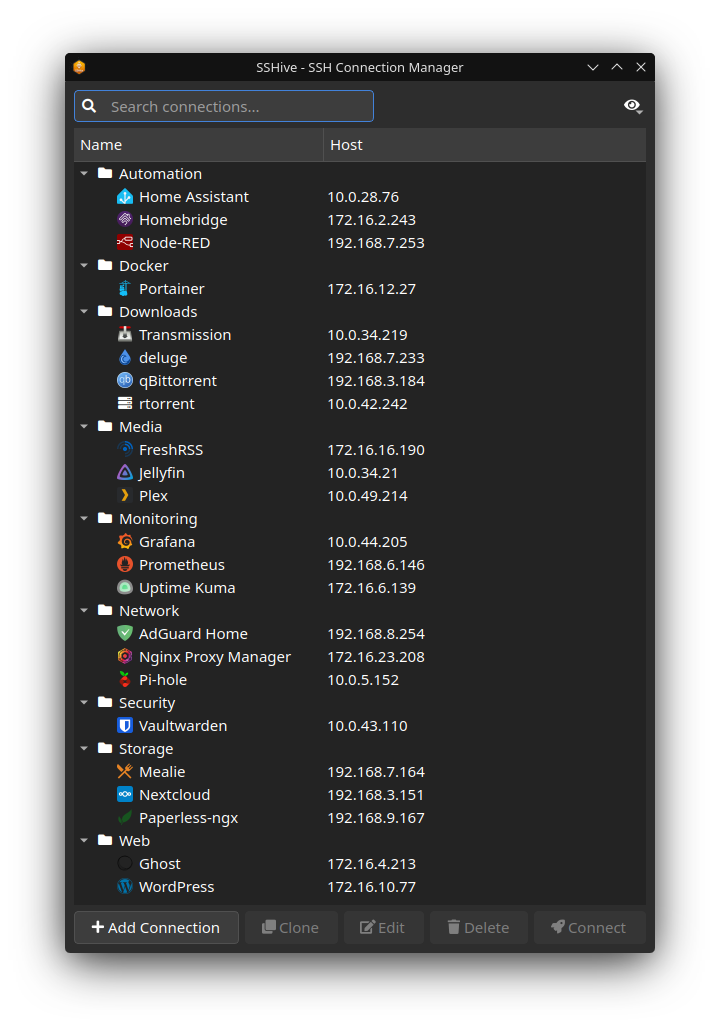
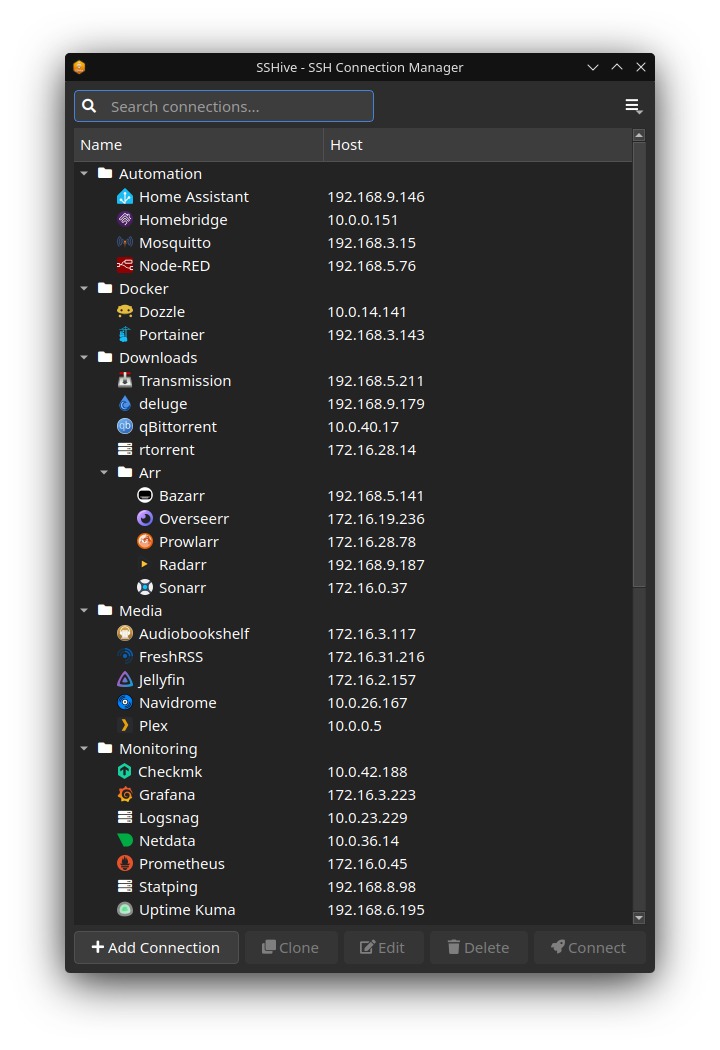
chore: Update README preview screenshots, use all incognito services

diff --git a/sshive/ui/main_window.py b/sshive/ui/main_window.py
@@ -306,7 +306,57 @@ class MainWindow(QMainWindow):
 
         self._populate_tree()
 
-    INCOGNITO_VERSION = 3
+    INCOGNITO_VERSION = 4
+
+    INCOGNITO_SERVICES = [
+        ("Plex", "Media", "plex"),
+        ("Nextcloud", "Storage", "nextcloud"),
+        ("Home Assistant", "Automation", "home-assistant"),
+        ("Pi-hole", "Network", "pi-hole"),
+        ("Portainer", "Docker", "portainer"),
+        ("Uptime Kuma", "Monitoring", "uptime-kuma"),
+        ("Jellyfin", "Media", "jellyfin"),
+        ("AdGuard Home", "Network", "adguard-home"),
+        ("Nginx Proxy Manager", "Network", "nginx-proxy-manager"),
+        ("Vaultwarden", "Security", "bitwarden"),
+        ("Paperless-ngx", "Storage", "paperless-ngx"),
+        ("deluge", "Downloads", "deluge"),
+        ("Sonarr", "Downloads/Arr", "sonarr"),
+        ("Radarr", "Downloads/Arr", "radarr"),
+        ("Prowlarr", "Downloads/Arr", "prowlarr"),
+        ("Overseerr", "Downloads/Arr", "overseerr"),
+        ("Bazarr", "Downloads/Arr", "bazarr"),
+        ("rtorrent", "Downloads", "rtorrent"),
+        ("Transmission", "Downloads", "transmission"),
+        ("qBittorrent", "Downloads", "qbittorrent"),
+        ("Grafana", "Monitoring", "grafana"),
+        ("Prometheus", "Monitoring", "prometheus"),
+        ("Homebridge", "Automation", "homebridge"),
+        ("FreshRSS", "Media", "freshrss"),
+        ("Mealie", "Storage", "mealie"),
+        ("Ghost", "Web", "ghost"),
+        ("WordPress", "Web", "wordpress"),
+        ("Node-RED", "Automation", "node-red"),
+        ("Mosquitto", "Automation", "mosquitto"),
+        ("TrueNAS Core", "Storage", "truenas"),
+        ("Unraid OS", "Storage", "unraid"),
+        ("Bitwarden", "Security", "bitwarden"),
+        ("Logsnag", "Monitoring", "logsnag"),
+        ("Netdata", "Monitoring", "netdata"),
+        ("Checkmk", "Monitoring", "checkmk"),
+        ("Guacamole", "Network", "guacamole"),
+        ("Tailscale", "Network", "tailscale"),
+        ("WireGuard", "Network", "wireguard"),
+        ("Dozzle", "Docker", "dozzle"),
+        ("Statping", "Monitoring", "statping"),
+        ("Audiobookshelf", "Media", "audiobookshelf"),
+        ("Navidrome", "Media", "navidrome"),
+        ("Gitea", "Web", "gitea"),
+        ("Wiki.js", "Web", "wikijs"),
+        ("Heimdall", "Web", "heimdall"),
+        ("Flame", "Web", "flame"),
+        ("Organizr", "Web", "organizr"),
+    ]
 
     def _load_or_generate_incognito_connections(self) -> list[SSHConnection]:
         """Load fake connections from file or generate them deterministically."""
@@ -327,26 +377,28 @@ class MainWindow(QMainWindow):
             except Exception as e:
                 print(f"Failed to load incognito connections: {e}")
 
-        # Fallback: generate deterministically from real connections
+        # Fallback: generate deterministically from full service catalog
         fake_conns = []
         used_identities = set()
 
-        for i, conn in enumerate(self.connections):
+        for i, (_, _, icon_name) in enumerate(self.INCOGNITO_SERVICES):
+            fake_id = f"incognito-{icon_name}-{i}"
+
             # Ensure we cycle through services correctly
-            name, host, user, group, icon, _ = self._get_fake_data(conn.id, service_index=i)
+            name, host, user, group, icon, _ = self._get_fake_data(fake_id, service_index=i)
 
             # Handle potential identity collisions
             counter = 1
             while (name, host) in used_identities and counter < 10:
                 name, host, user, group, icon, _ = self._get_fake_data(
-                    f"{conn.id}-{counter}", service_index=i + counter
+                    f"{fake_id}-{counter}", service_index=i + counter
                 )
                 counter += 1
 
             used_identities.add((name, host))
 
             # Use deterministic port
-            _, _, _, _, _, fake_port = self._get_fake_data(conn.id, service_index=i)
+            _, _, _, _, _, fake_port = self._get_fake_data(fake_id, service_index=i)
 
             fake_conn = SSHConnection(
                 name=name,
@@ -355,7 +407,7 @@ class MainWindow(QMainWindow):
                 port=fake_port,
                 group=group,
                 icon=icon,
-                id=conn.id,
+                id=fake_id,
             )
             fake_conns.append(fake_conn)
 
@@ -388,61 +440,11 @@ class MainWindow(QMainWindow):
 
         seed = int(hashlib.md5(connection_id.encode()).hexdigest(), 16)
 
-        services = [
-            ("Plex", "Media", "plex"),
-            ("Nextcloud", "Storage", "nextcloud"),
-            ("Home Assistant", "Automation", "home-assistant"),
-            ("Pi-hole", "Network", "pi-hole"),
-            ("Portainer", "Docker", "portainer"),
-            ("Uptime Kuma", "Monitoring", "uptime-kuma"),
-            ("Jellyfin", "Media", "jellyfin"),
-            ("AdGuard Home", "Network", "adguard-home"),
-            ("Nginx Proxy Manager", "Network", "nginx-proxy-manager"),
-            ("Vaultwarden", "Security", "bitwarden"),
-            ("Paperless-ngx", "Storage", "paperless-ngx"),
-            ("deluge", "Downloads", "deluge"),
-            ("rtorrent", "Downloads", "rtorrent"),
-            ("Transmission", "Downloads", "transmission"),
-            ("qBittorrent", "Downloads", "qbittorrent"),
-            ("Grafana", "Monitoring", "grafana"),
-            ("Prometheus", "Monitoring", "prometheus"),
-            ("Homebridge", "Automation", "homebridge"),
-            ("FreshRSS", "Media", "freshrss"),
-            ("Mealie", "Storage", "mealie"),
-            ("Ghost", "Web", "ghost"),
-            ("WordPress", "Web", "wordpress"),
-            ("Node-RED", "Automation", "node-red"),
-            ("Mosquitto", "Automation", "mosquitto"),
-            ("TrueNAS Core", "Storage", "truenas"),
-            ("Unraid OS", "Storage", "unraid"),
-            ("Bitwarden", "Security", "bitwarden"),
-            ("Logsnag", "Monitoring", "logsnag"),
-            ("Netdata", "Monitoring", "netdata"),
-            ("Checkmk", "Monitoring", "checkmk"),
-            ("Guacamole", "Network", "guacamole"),
-            ("Tailscale", "Network", "tailscale"),
-            ("WireGuard", "Network", "wireguard"),
-            ("Dozzle", "Docker", "dozzle"),
-            ("Statping", "Monitoring", "statping"),
-            ("Audiobookshelf", "Media", "audiobookshelf"),
-            ("Navidrome", "Media", "navidrome"),
-            ("Sonarr", "Downloads", "sonarr"),
-            ("Radarr", "Downloads", "radarr"),
-            ("Prowlarr", "Downloads", "prowlarr"),
-            ("Overseerr", "Downloads", "overseerr"),
-            ("Bazarr", "Downloads", "bazarr"),
-            ("Gitea", "Web", "gitea"),
-            ("Wiki.js", "Web", "wikijs"),
-            ("Heimdall", "Web", "heimdall"),
-            ("Flame", "Web", "flame"),
-            ("Organizr", "Web", "organizr"),
-        ]
-
         users = ["admin", "root", "pi", "user", "manager", "maintainer", "sysop", "dev"]
 
         # Use service_index if provided to ensure distribution, otherwise fallback to seed
         idx = service_index if service_index is not None else seed
-        service_info = services[idx % len(services)]
+        service_info = self.INCOGNITO_SERVICES[idx % len(self.INCOGNITO_SERVICES)]
 
         name = service_info[0]
         group = service_info[1]
